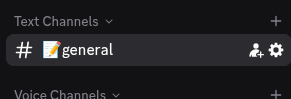
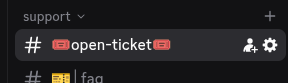
Orivon Foundation update

diff --git a/sidebars.js b/sidebars.js
@@ -44,7 +44,7 @@ const sidebars = {
         {
           type: 'doc',
           id: 'dao-plan',
-          label: 'DAO Structure & Plan',
+          label: 'DAO Plan & Rewards',
         },
         {
           type: 'doc',

diff --git a/docs/more/doc-changelog.md b/docs/more/doc-changelog.md
@@ -51,3 +51,10 @@ Here you will find a list of updates that are made to this documentation across 
 - *Modified nomination from The Orivon Project to Orivon Foundation*
 - *Added Implementation references to the Technical Design*
 - *Improved many other pages*
+
+*6 May 2026 by [sp3rick](https://github.com/Sp3rick):*
+- *Renamed **DAO Structure** & Plan to [**DAO Plan & Rewards**](/docs/dao-plan)*
+- *Improved [**Get Involved**](/docs/involving)*
+- *Improved [**Roadmap**](/docs/roadmap)*
+- *Improved [**DAO Plan & Rewards**](/docs/dao-plan)*
+- *Improved many other pages*

diff --git a/docs/implementations/native-ddoc-specs.md b/docs/implementations/native-ddoc-specs.md
@@ -31,7 +31,7 @@ Example:
 
 The number serves for versioning, so that Domain owners can have multiple DDOC Hashes and update their sites across time without causing DDOC to fail
 
-#### Script for site owners
+#### SCRIPT FOR SITE OWNERS
 
 Who owns a Static Export (or builded) website will be able to add support of DDOC by simply running a script
 

diff --git a/docs/economical-strategy.md b/docs/economical-strategy.md
@@ -35,7 +35,7 @@ These featuring will be offered in different ways:
 
 New ways may be added in the future
 
-#### Price influencing factors
+#### PRICE INFLUENCING FACTORS
 
 Then there are some factors influencing the price of the Sponsor and it’s priority versus other bidders
 
